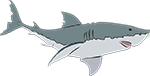
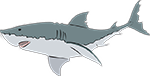
Created background for the levels and fixed directions of enemies

diff --git a/src/com/the_dungeoneers/game/states/island/IslandManager.java b/src/com/the_dungeoneers/game/states/island/IslandManager.java
@@ -101,8 +101,7 @@ public class IslandManager implements State {
 		g.textAlign(PConstants.RIGHT, PConstants.TOP);
 		g.textSize(60);
 		g.fill(243,203,116);
-		
-		g.textFont(Game.ranga);
+
 		g.text("Day: "+day, g.width, 0);
 		g.text(currentIsland.name, g.width, 50);
 				
